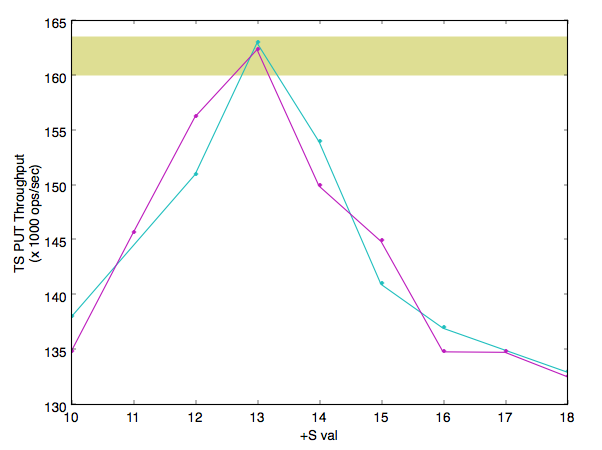
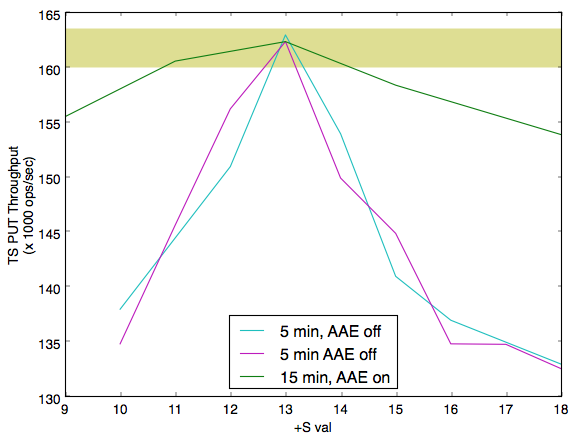
Added longer AAE test

diff --git a/python_scripts/kvlatency_cmp.py b/python_scripts/kvlatency_cmp.py
@@ -78,11 +78,13 @@ bytes1, puts1, gets1 = getProfilerOutput(dataDir + 'kvlatency_nval1.txt')
 bytes3, puts3, gets3 = getProfilerOutput(dataDir + 'kvlatency_nval3.txt')
 bytesw1c3, putsw1c3, getsw1c3 = getProfilerOutput(dataDir + 'kvlatency_nval3_w1c.txt')
 bytesb3, putsb3, getsb3 = getProfilerOutput(dataDir + 'kvlatency_nval3_bitcask.txt')
+bytesaaeoff, putsaaeoff, getsaaeoff = getProfilerOutput(dataDir + 'kvlatency_nval3_aae_passive.txt')
+bytesaaeon, putsaaeon, getsaaeon = getProfilerOutput(dataDir + 'kvlatency_nval3_aae_active.txt')
 
 fig = plt.figure()
 fig.set_facecolor('white');
 
-ax = fig.add_subplot(1,3,1)
+ax = fig.add_subplot(2,2,1)
 retick(ax, 14)
 makePlot(bytes3, puts3, gets3)
 makePlot(bytes1, puts1, gets1)
@@ -90,7 +92,7 @@ makePlot(bytes1, puts1, gets1)
 plt.legend(['leveldb GET (nval=3)', 'leveldb PUT (nval=3)', 'leveldb GET (nval=1)', 'leveldb PUT (nval=1)'],loc='upper left')
 plt.title('Riak KV Round-trip Latencies\nleveldb nval=3 vs. nval=1, erlang client',fontsize=16)
 
-ax = fig.add_subplot(1,3,2)
+ax = fig.add_subplot(2,2,2)
 retick(ax, 14)
 makePlot(bytes3, puts3, gets3)
 makePlot(bytesb3, putsb3, getsb3)
@@ -98,12 +100,20 @@ makePlot(bytesb3, putsb3, getsb3)
 plt.legend(['leveldb GET', 'leveldb PUT', 'bitcask GET', 'bitcask PUT)'],loc='upper left')
 plt.title('Riak KV Round-trip Latencies\nleveldb vs. bitcask, nval=3, erlang client',fontsize=16)
 
-ax = fig.add_subplot(1,3,3)
+ax = fig.add_subplot(2,2,3)
 retick(ax, 14)
 makePlot(bytes3, puts3, gets3)
 makePlot(bytesw1c3, putsw1c3, getsw1c3)
 
 plt.legend(['normal GET', 'normal PUT', 'w1c GET', 'w1c PUT'],loc='upper left')
 plt.title('Riak KV Round-trip Latencies\nnormal vs. write-once, nval=3, erlang client',fontsize=16)
+
+ax = fig.add_subplot(2,2,4)
+retick(ax, 14)
+makePlot(bytesaaeoff, putsaaeoff, getsaaeoff)
+makePlot(bytesaaeon, putsaaeon, getsaaeon)
+
+plt.legend(['normal GET, AAE off', 'normal PUT, AAE off', 'normal GET, AAE on', 'normal PUT, AAE off'],loc='upper left')
+plt.title('Riak KV Round-trip Latencies\nAAE off vs. on, normal bucket, nval=3, erlang client',fontsize=16)
 
 plt.show()
